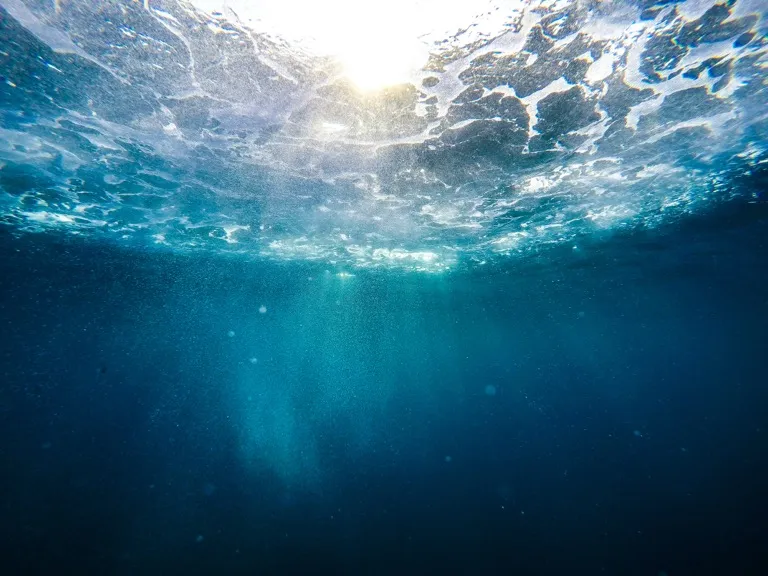
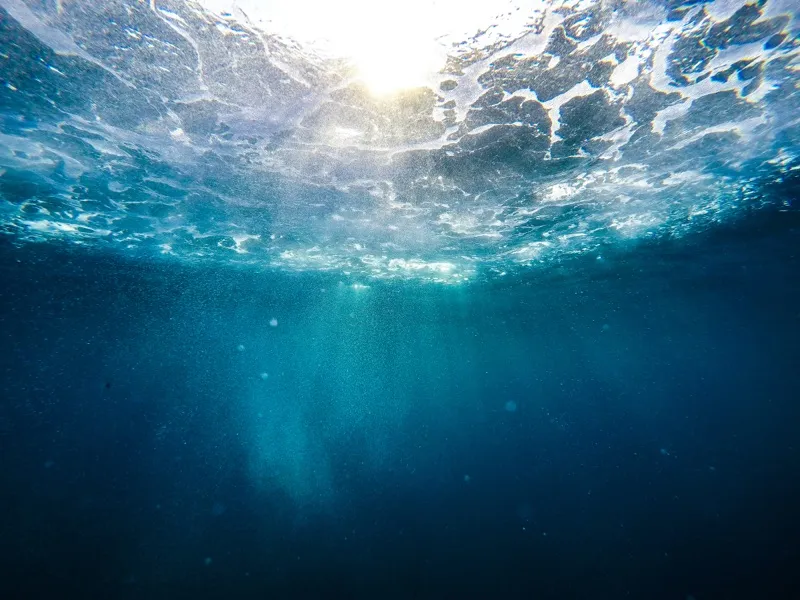
Update SST validation hero image

diff --git a/css/sst-validation.css b/css/sst-validation.css
@@ -485,7 +485,7 @@ main {
 /* Hero Section */
 /* Hero Section - moni1000 style */
 .hero-section {
-    background: linear-gradient(135deg, rgba(26, 54, 93, 0.75), rgba(43, 108, 176, 0.6)), url("../images/bg-moni1000.webp");
+    background: linear-gradient(135deg, rgba(26, 54, 93, 0.75), rgba(43, 108, 176, 0.6)), url("../images/bg-sst-validation.webp");
     color: white;
     padding: 2.5rem 2rem;
     border-radius: 12px;
@@ -548,7 +548,7 @@ body.ja .hero-tagline {
 /* Mobile-optimized hero */
 @media (max-width: 768px) {
     .hero-section {
-        background: linear-gradient(135deg, rgba(26, 54, 93, 0.8), rgba(43, 108, 176, 0.7)), url("../images/bg-moni1000-mobile.webp") !important;
+        background: linear-gradient(135deg, rgba(26, 54, 93, 0.8), rgba(43, 108, 176, 0.7)), url("../images/bg-sst-validation-mobile.webp") !important;
         background-size: cover !important;
         background-position: center !important;
         padding: 2rem 1.5rem;
